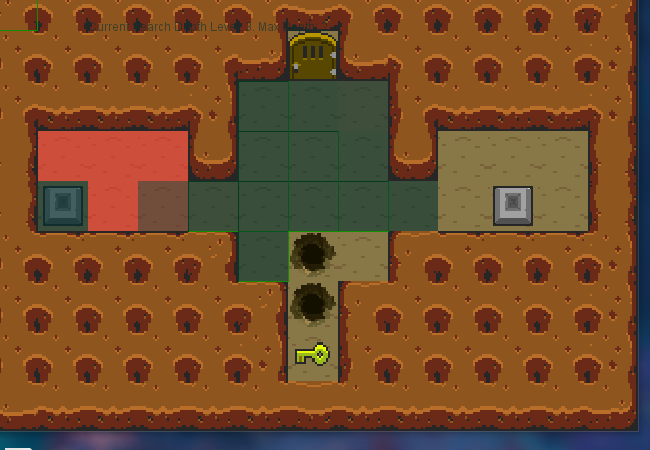
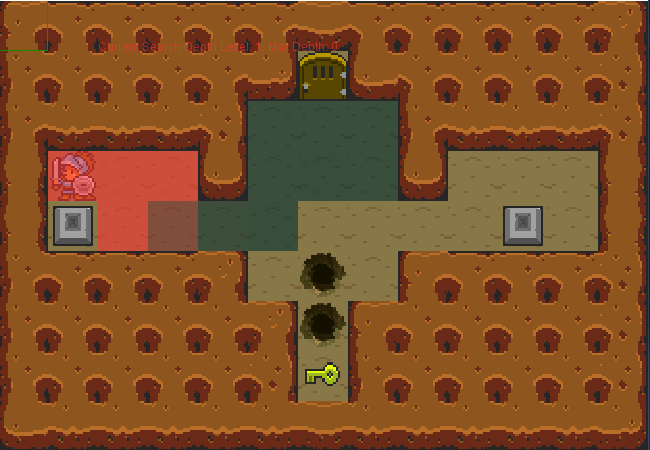
Added more comments

diff --git a/Artefact/gvgai-2016/src/DissertationFiles/DataCollection.java b/Artefact/gvgai-2016/src/DissertationFiles/DataCollection.java
@@ -43,9 +43,9 @@ public class DataCollection
     private int levelIteration = 0;
     // An Int to store the number of cells that have been explored
     private int cellsExplored = 0;
-
-    private String point = "NULL";
-
+    // Game name for saving the data correctly
+    public String GameName;
+    // History of points and how many times they were visited
     public ConcurrentHashMap<String, Integer> PositionHistory = new ConcurrentHashMap<String, Integer>();
 
 
@@ -57,21 +57,21 @@ public class DataCollection
         if (playerPosition != null)
             AddPlayerPosition(SO);
 
-        // Add to list of positions if it doesnt exist
-        if (!dataCollection.listOfAgentLccations.contains(SO.getAvatarPosition()))
+        String point = "NULL";
+        // Add to list of positions if it doesnt exist (new position)
+        if (!dataCollection.listOfAgentLccations.contains(playerPosition))
         {
             cellsExplored++;
-            dataCollection.listOfAgentLccations.add(SO.getAvatarPosition());
-            JSONObject newJson = new JSONObject(ConvertPositionToJSON(SO.getAvatarPosition()));
+            dataCollection.listOfAgentLccations.add(playerPosition);
             point = playerPosition.toString();
             dataCollection.PositionHistory.put(point, 0);
         }
-
 
         // Update points visited
         point = playerPosition.toString();
         if(dataCollection.PositionHistory.containsKey(point))
         {
+            // Get and update the position history of that element
             int test = dataCollection.PositionHistory.get(point);
             test++;
             dataCollection.PositionHistory.replace(point, test);
@@ -109,7 +109,7 @@ public class DataCollection
 
 
     // Add player positions to the state observation
-    public void AddPlayerPosition(StateObservation SO)
+    private void AddPlayerPosition(StateObservation SO)
     {
         try
         {
@@ -162,7 +162,7 @@ public class DataCollection
         return ret;
     }
 
-    // Seralise the string
+    //! Seralise the string (NOT USED)
     private String serializeString(String str)
     {
 
@@ -185,7 +185,6 @@ public class DataCollection
 
 
     //! This function calculates the area in which the controller explored
-    //TODO: Remove the imovable cells from the equation
     private double calculatePercentageOfExploredLevel(StateObservation SO)
     {
         ArrayList<Observation> grid[][] = SO.getObservationGrid();
@@ -195,22 +194,34 @@ public class DataCollection
         int cellsUnexplored = 0;
 
         double percent = 0;
+        int immovablePositions = 0;
+        if(SO.getImmovablePositions() != null)
+        {
+            immovablePositions = SO.getImmovablePositions().length;
+        }
 
-        double test = SO.getImmovablePositions().length;
         // Get the map size negative the immovable positions
-        int mapSize = grid.length * grid[0].length - SO.getImmovablePositions().length;
+        int mapSize = grid.length * grid[0].length - immovablePositions;
         percent = (double) cellsExplored / (double) mapSize;
         System.out.println("Percentage of level explored: " + percent * 100.0);
         return percent * 100;
     }
 
+    //! Capture the screen
     private void CaptureScreen(StateObservation SO)
     {
         try
         {
+            //Create a rect to capture
             Rectangle screenRect = new Rectangle(SO.getWorldDimension());
+            // Set the position of the capture position to cut out the window headder bar
+            screenRect.y +=30;
+            screenRect.x +=10;
+
+
+            //Save and write image
             BufferedImage capture = new Robot().createScreenCapture(screenRect);
-            ImageIO.write(capture, "bmp", new File("../R/Data/FinalGameRender" + levelIteration + ".jpg"));
+            ImageIO.write(capture, "bmp", new File("../R/Data/ScreenCapture/FinalGameRender_" + dataCollection.levelIteration + ".jpg"));
         }
         catch (Exception e)
         {

diff --git a/Artefact/gvgai-2016/src/DissertationFiles/Visualisations.java b/Artefact/gvgai-2016/src/DissertationFiles/Visualisations.java
@@ -20,9 +20,9 @@ public class Visualisations
     private Vector<Vector2d> searchPoints = new Vector<Vector2d>();
 
     //! Booleans for choosing what should be rendered over the game
-    public boolean drawAreaSearched = true;
-    public boolean drawBestActionPath = false;
-    public boolean drawPreviousLocations = true;
+    private boolean drawAreaSearched = true;
+    private boolean drawBestActionPath = false;
+    private boolean drawPreviousLocations = true;
 
     //! Block offset for drawing in the center of the cells
     private int blockOffset = 0;
@@ -36,11 +36,15 @@ public class Visualisations
     //! Renders the tree searches over the search space
     public void renderSearchSpace(SingleMCTSPlayer MCTSPlayer, Graphics2D g)
     {
+        int cellSize = 0;
         if(MCTSPlayer.m_root.state != null)
+        {
+            // Get the cellSize
             blockOffset = MCTSPlayer.m_root.state.getBlockSize() / 2;
+            cellSize = MCTSPlayer.m_root.state.getBlockSize();
+        }
 
-        // Get the cellSize
-        int cellSize = MCTSPlayer.m_root.state.getBlockSize();
+
 
         // Search the tree starting at the root
         recursivelySearchTree(MCTSPlayer.m_root);
@@ -74,11 +78,13 @@ public class Visualisations
             Vector2d[] points = GetPathFromNode(MCTSPlayer.m_root);
 
             // Loop through the points and draw lines between them
-            if(points.length > 1)
-                for (int i = 0; i < points.length; i++) {
+            if (points.length > 1)
+                for (int i = 0; i < points.length; i++)
+                {
                     if (points[i] != null)
                         // If the point does not equal 0,0
-                        if (!oldPos.equals(originPoint)) {
+                        if (!oldPos.equals(originPoint))
+                        {
                             g.setStroke(new BasicStroke(10));
                             g.setPaint(new Color(200, 100, 0));
                             g.drawLine((int) oldPos.x + blockOffset, (int) oldPos.y + blockOffset, (int) points[i].x + blockOffset, (int) points[i].y + blockOffset);
@@ -86,26 +92,6 @@ public class Visualisations
                         }
                     oldPos = points[i];
                 }
-
-
-
-            /* OLD CODE (TO BE REMOVED)
-            // Loop through the hashmap and draw the lines between the most visited points
-            for (Map.Entry<Vector2d, Integer> entry : timesPointVisited.entrySet()) {
-                Vector2d pos = entry.getKey();
-                Integer visits = entry.getValue();
-
-                // If the oldPoint isn't null then draw it
-                if (!oldPos.equals(originPoint))
-                {
-                    g.setStroke(new BasicStroke(visits));
-                    g.setPaint(new Color(visits,visits / 2, visits * 2));
-                    g.drawLine((int) oldPos.x + blockOffset, (int) oldPos.y+ blockOffset, (int) pos.x+ blockOffset, (int) pos.y+ blockOffset);
-                }
-
-                oldPos = pos;
-            }
-            */
         }
 
         if(drawPreviousLocations)
@@ -197,13 +183,15 @@ public class Visualisations
 
 
     //! Returns a list of points that the most visited nodes are
-    private Vector2d[] GetPathFromNode(SingleTreeNode node) {
+    private Vector2d[] GetPathFromNode(SingleTreeNode node)
+    {
         // Create an array of points to return
         Vector2d[] res = new Vector2d[100];
 
         int j = 0;
-        while (node != null) {
-
+        // Loop until there are no more nodes
+        while (node != null)
+        {
             int best = node.bestAction();
 
             if(node.children[best] != null) {

diff --git a/Artefact/gvgai-2016/src/Test.java b/Artefact/gvgai-2016/src/Test.java
@@ -83,22 +83,23 @@ public class Test
 
 
         // 2. This plays a game in a level by the controller.
-        ArcadeMachine.runOneGame(game, level1, visuals, sampleMCTSController, recordActionsFile, seed, 0);
+        //.runOneGame(game, level1, visuals, sampleMCTSController, recordActionsFile, seed, 0);
 
         // 3. This replays a game from an action file previously recorded
         //String readActionsFile = "actions_pacman_lvl1_-1877682670.txt";
         //ArcadeMachine.replayGame(game, level1, visuals, readActionsFile);
 
         // 4. This plays a single game, in N levels, M times :  Use games.length for all games
-       // String level2 = gamesPath + games[gameIdx] + "_lvl" + 1 +".txt";
-       // int M = 1;
-       // for(int i=0; i < 1; i++)
-       // {
-       // 	game = gamesPath + games[i] + ".txt";
-       // 	level1 = gamesPath + games[i] + "_lvl" + levelIdx +".txt";
-       // 	ArcadeMachine.runGames(game, new String[]{level1}, M, sampleMCTSController, null);
-       // }
-       // DataCollection.getInstance().SaveDataToFile(DataCollection.getInstance().AllData);
+        //String level2 = gamesPath + games[gameIdx] + "_lvl" + 1 +".txt";
+        int M = 1;
+        for(int i=0; i < 10; i++)
+        {
+        	game = gamesPath + games[i] + ".txt";
+        	DataCollection.getInstance().GameName = game;
+        	level1 = gamesPath + games[i] + "_lvl" + levelIdx +".txt";
+        	ArcadeMachine.runGames(game, new String[]{level1}, M, sampleMCTSController, null);
+        }
+        DataCollection.getInstance().SaveDataToFile(DataCollection.getInstance().AllData);
         
         //5. This starts a game, in a generated level created by a specific level generator
 
